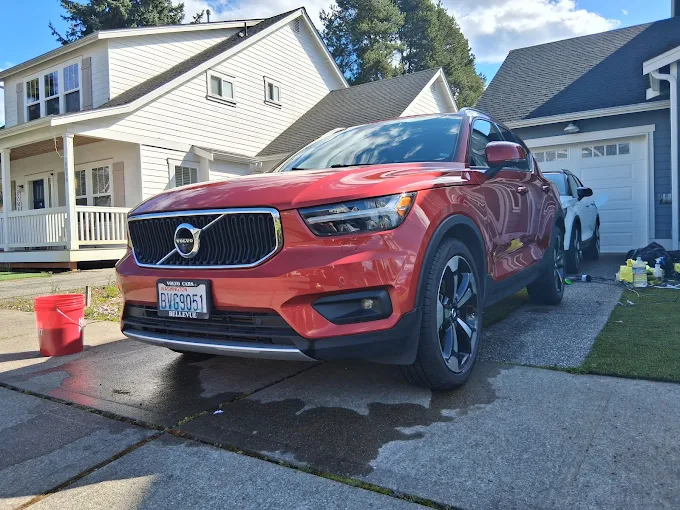
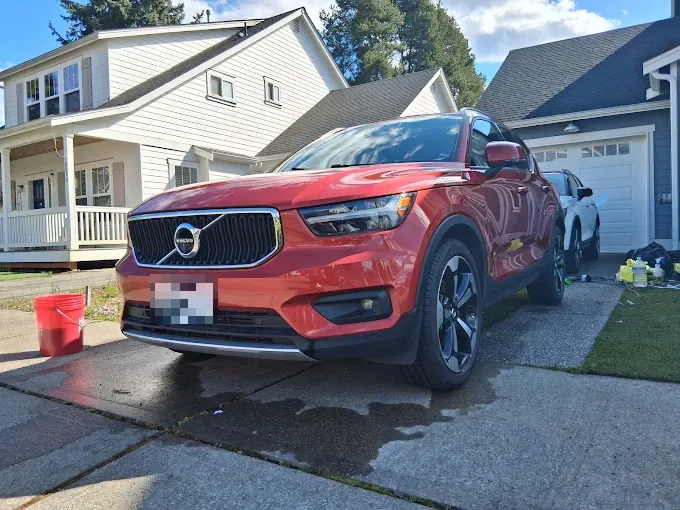
Pixelate customer plates in 5 gallery photos; fill the interior page's image slot
The accessibility pass flagged possible readable plates in two gallery photos.
Looking at all ten found five: the Lexus (3), Pilot (5), Highlander (7), the red
Volvo (9, plate and Bellevue dealer frame) and the Mazda (10). They show on the
homepage, services and maintenance galleries. Each plate is now ~8px blocks;
the rest of each photo is untouched. The smaller copies made on 2026-10-06
(ba_1-4, focus-*-360) have no readable plates.

services/interior.html showed "[ IMAGE SLOT, replace with interior shot ]" in
its hero. It now holds volvo-interior.webp the same way the exterior page's
slot holds its photo. No sideways scroll at 390 or 360 (measured).

Claude-Session: https://claude.ai/code/session_013QT26cPrcUBH1d89McQn7V

Changed region(s): [[0.2162, 0.5294, 0.3397, 0.6471]]

diff --git a/services/interior.html b/services/interior.html
@@ -631,7 +631,7 @@ footer.site-footer { background: #0a0a0a; padding: 60px 0 30px; border-top: 2px 
       <a href="https://mikeysdetailing.com/#booking" class="btn">Get My Instant Quote →</a>
       <a href="#included" class="btn btn-outline">See What's Included</a>
     </div>
-    <div class="image-slot">[ IMAGE SLOT, replace with interior shot ]</div>
+    <div class="image-slot"><img src="/images/volvo-interior.webp" alt="Volvo XC40 interior: dash, center console, floor mats and front seats" width="1000" height="750" loading="lazy" style="width:100%;height:100%;object-fit:cover;"></div>
   </div>
 </section>
 
